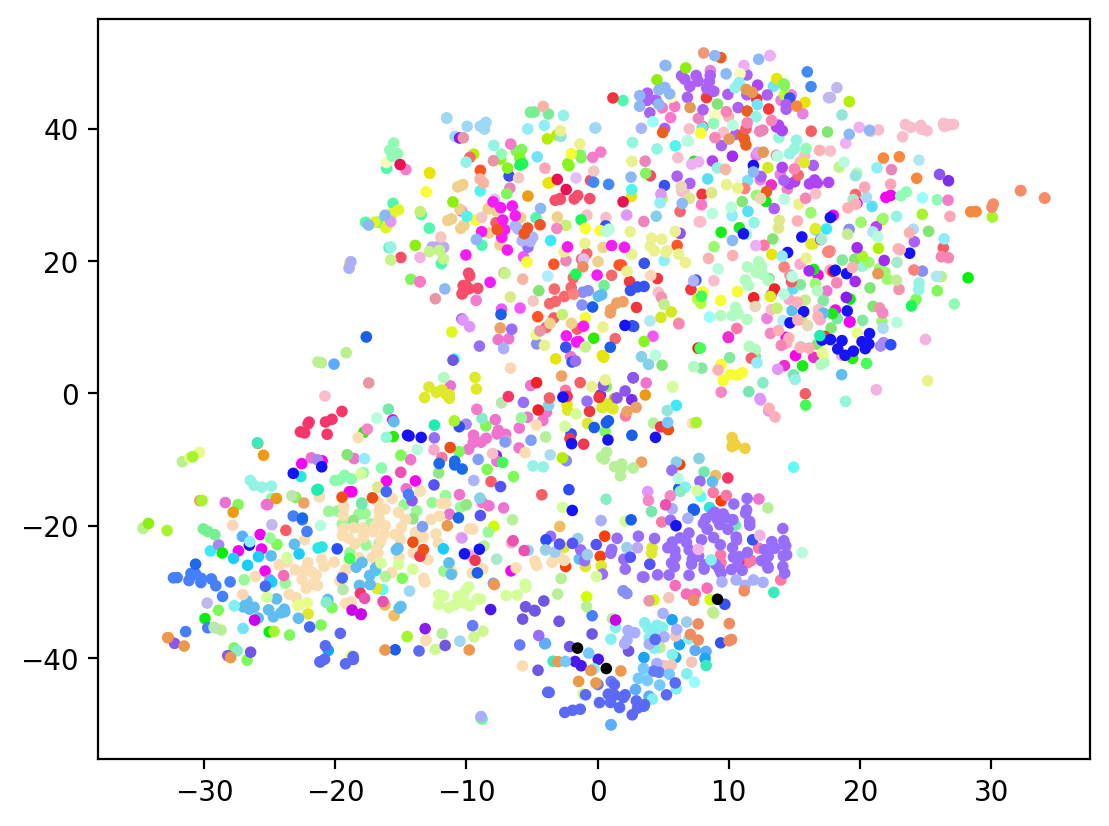
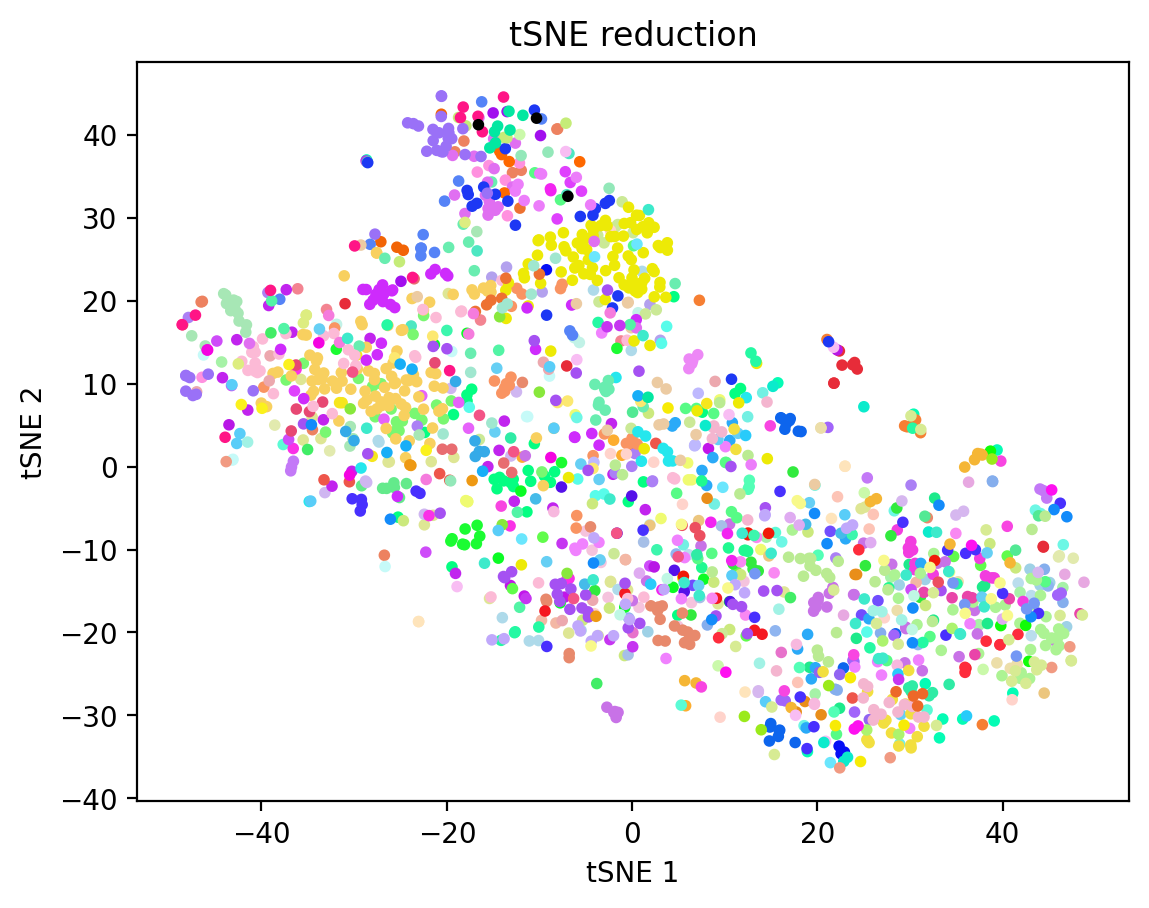
Added plots
- Added plots
- Improved TSNE Visualizer

diff --git a/helper/viz.py b/helper/viz.py
@@ -2,12 +2,15 @@ import os
 
 import matplotlib.pyplot as plt
 import numpy as np
+import pandas as pd
 from PyQt5.QtCore import pyqtSlot
 from PyQt5.QtGui import QDoubleValidator, QIcon
 from PyQt5.QtWidgets import QTableWidget, \
     QTableWidgetItem, QItemDelegate, QLineEdit, QPushButton
 from sklearn.manifold import TSNE
+from sklearn.preprocessing import StandardScaler
 
+from helper.misc import rand_cmap
 from reader import DataSet
 
 
@@ -16,7 +19,7 @@ def plot_mesh(mesh, ax):
     X, Y, Z = points[:, 0], points[:, 1], points[:, 2]
     faces = DataSet._get_cells(mesh)
     return ax.plot_trisurf(X, Y, Z=Z, triangles=faces)
-0
+
 
 def visualize_histograms(extractor, functions, item_ids=[0, 1], names=None, plot_titles=None):
     meshes = np.array(extractor.full_data)[item_ids]
@@ -134,6 +137,9 @@ class TsneVisualiser:
         # Playing around with parameters, this seems like a good fit
         tsne_results = TSNE(perplexity=40, learning_rate=500).fit_transform(st_values)
         t_x, t_y = tsne_results[:, 0], tsne_results[:, 1]
+        plt.title("tSNE reduction")
+        plt.xlabel("tSNE 1")
+        plt.ylabel("tSNE 2")
         plt.scatter(t_x, t_y, c=labels, cmap=color_map, vmin=0, vmax=len(lbl_list), label=lbl_list, s=10)
         plt.savefig(self.filename, bbox_inches='tight', dpi=200)
 
